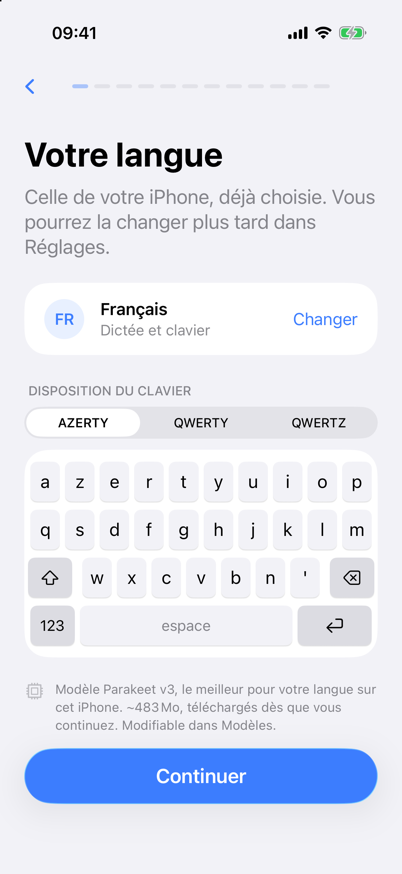
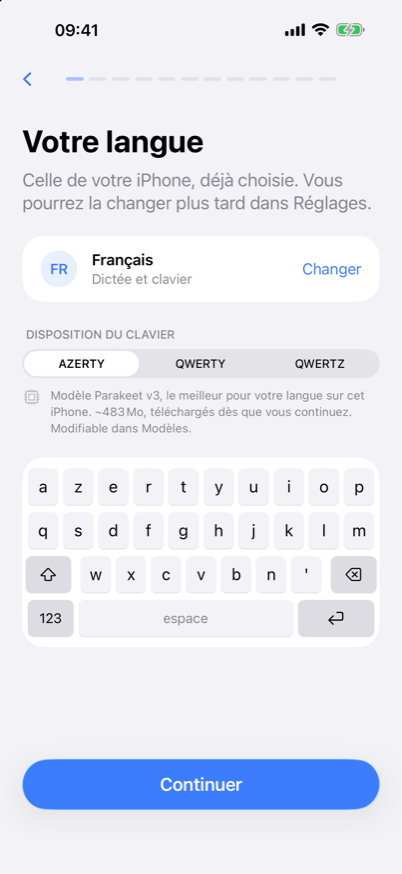
Move the recommended-model line above the keyboard preview (refs #772)
On a 667 pt iPhone SE the 208 pt layout preview pushed modelLine under the
pinned Continue button, so the recommended model only showed after a scroll.
The line now sits right under the layout picker; the preview follows it.
The screen-map capture app.onboarding.language is refreshed.

diff --git a/DictusApp/Onboarding/LanguageSetupPage.swift b/DictusApp/Onboarding/LanguageSetupPage.swift
@@ -75,10 +75,12 @@ struct LanguageSetupPage: View {
                 .pickerStyle(.segmented)
                 .padding(.bottom, 12)
 
-                LayoutPreview(layout: setup.layout, language: setup.keyboardLanguage)
+                // Above the preview so it stays above the fold on a 667 pt iPhone SE (#772):
+                // the preview is 208 pt tall and the Continue button is pinned.
+                modelLine
                     .padding(.bottom, 24)
 
-                modelLine
+                LayoutPreview(layout: setup.layout, language: setup.keyboardLanguage)
             }
         } bottom: {
             OnboardingPrimaryButton(Text("Continue")) {
